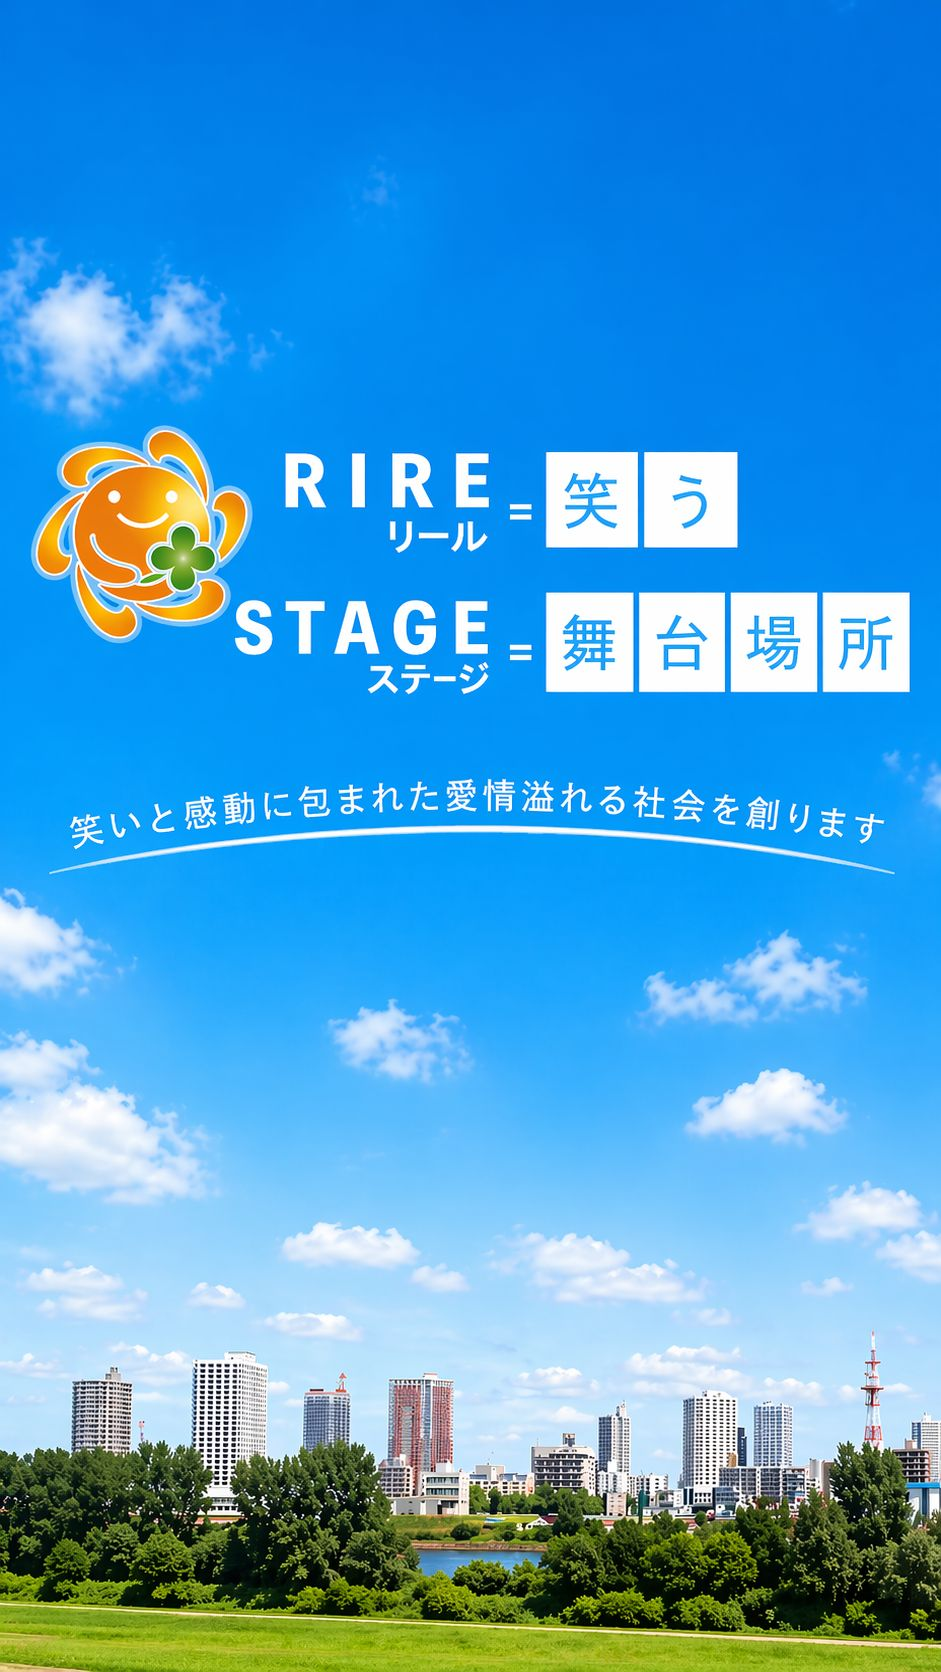
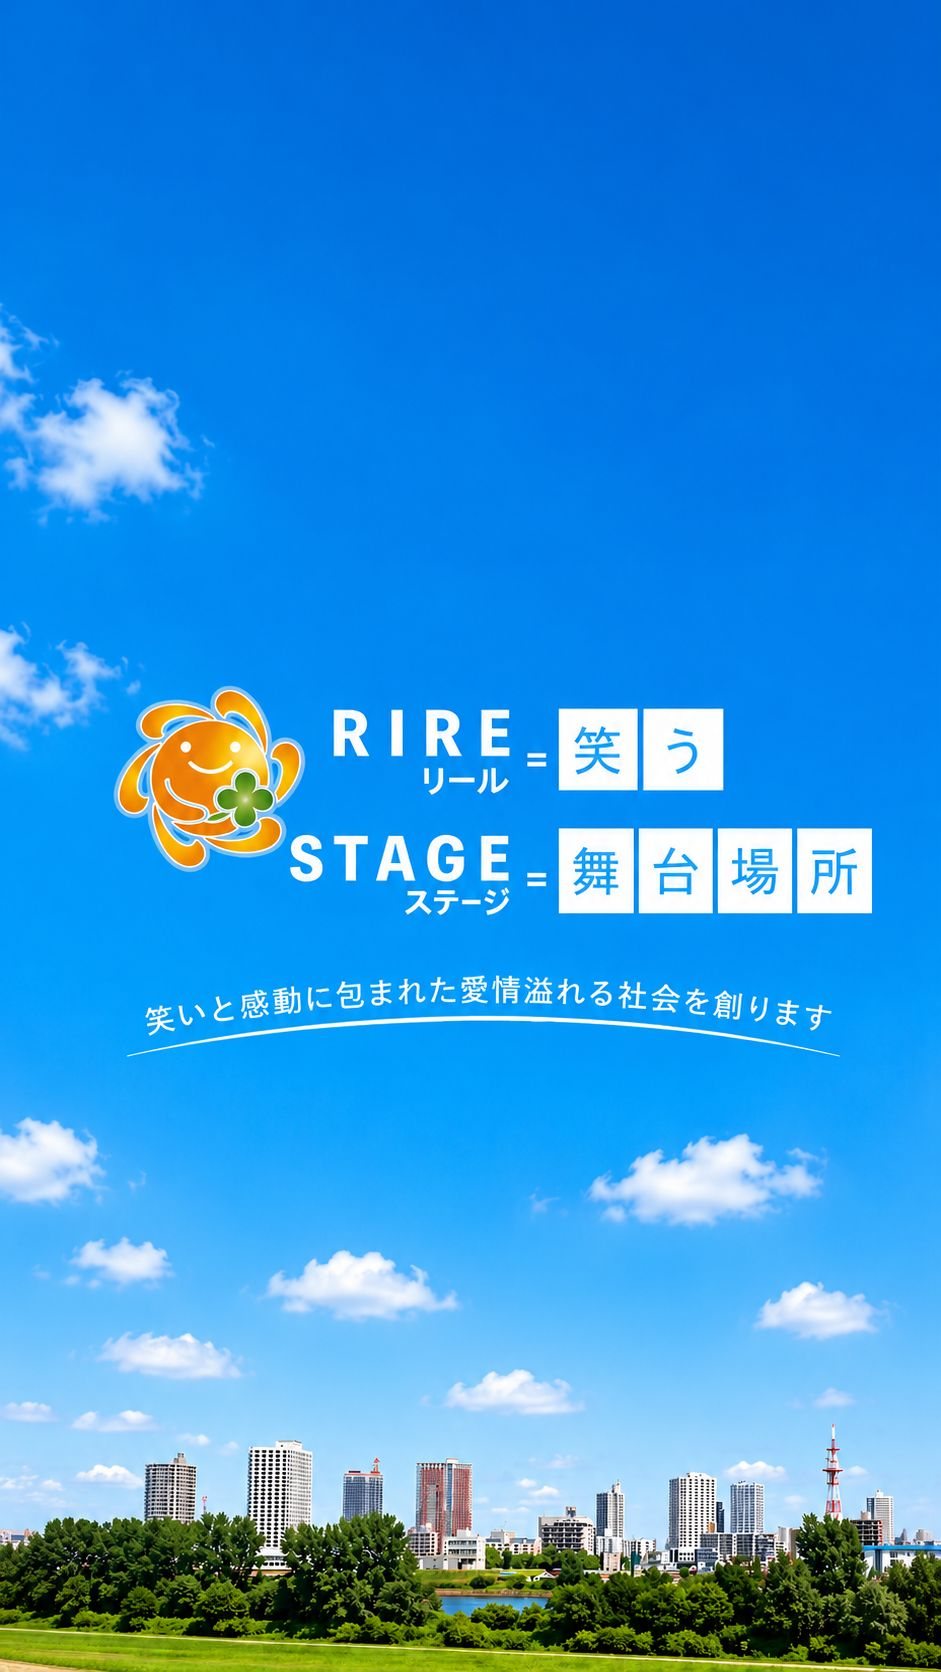
トップ画像を更新

diff --git a/style.css b/style.css
@@ -77,22 +77,7 @@ img {
   opacity: 0.85;
 }
 
-.hero {
-  position: relative;
-  width: 100%;
-  height: 100vh;
-  min-height: 0;
-  box-sizing: border-box;
-  overflow: hidden;
-}
 
-.hero-slider {
-  position: absolute;
-  inset: 0;
-  top: 0;
-  bottom: 0;
-  overflow: hidden;
-}
 
 .hero-slider .slide {
   position: absolute;
@@ -164,16 +149,6 @@ img {
   }
 }
 
-.vacancy {
-  display: inline-block;
-  padding: 10px 20px;
-  background-color: rgba(255, 255, 255, 0.9);
-  color: #00695c;
-  font-size: 20px;
-  font-weight: bold;
-  border-radius: 999px;
-  max-width: 320px;
-}
 
 h1 {
   font-size: 40px;
@@ -313,19 +288,6 @@ h2 {
   line-height: 1.8;
 }
 
-@media (max-width: 768px) {
-  .reason-item {
-    flex-direction: column;
-    gap: 12px;
-    padding: 20px;
-  }
-
-  .reason-number {
-    width: 46px;
-    height: 46px;
-    font-size: 18px;
-  }
-}
 
 .gallery {
   display: grid;
@@ -367,12 +329,6 @@ footer {
   background-color: #dfeeea;
 }
 
-.contact-tel {
-  font-size: 24px;
-  font-weight: bold;
-  margin: 16px 0 8px;
-}
-
 .contact-tel a {
   color: #00695c;
   text-decoration: none;
@@ -382,11 +338,6 @@ footer {
   text-decoration: underline;
 }
 
-.contact-note {
-  margin-top: 16px;
-  font-size: 15px;
-  color: #666;
-}
 
 #contact {
   text-align: left;
@@ -479,14 +430,6 @@ footer {
   overflow: hidden;
 }
 
-.hero-slider .slide {
-  position: absolute;
-  inset: 0;
-  width: 100%;
-  height: 100%;
-  opacity: 0;
-  animation: heroFade 10s infinite;
-}
 
 .hero-slider .slide:nth-child(1) {
   animation-delay: 0s;
@@ -518,13 +461,6 @@ footer {
   pointer-events: none;
 }
 
-@keyframes heroFade {
-  0% { opacity: 0; }
-  10% { opacity: 1; }
-  40% { opacity: 1; }
-  50% { opacity: 0; }
-  100% { opacity: 0; }
-}
 
 /* ==================================================
    mainビジュアル内の白文字
@@ -626,53 +562,7 @@ footer {
   color: #444;
 }
 
-/* ==================================================
-   mainビジュアル スマホ対応
-================================================== */
 
-@media (max-width: 768px) {
-  .hero {
-    height: 62vh;
-    min-height: 460px;
-  }
-
-  .hero-text {
-    left: 24px;
-    right: 24px;
-    top: 50%;
-    width: auto;
-    max-width: none;
-  }
-
-  .hero-label {
-    min-width: 0;
-    font-size: 13px;
-    padding: 7px 14px;
-    margin-bottom: 14px;
-  }
-
-  .hero-text h1 {
-    font-size: 28px;
-    line-height: 1.45;
-    margin-bottom: 18px;
-  }
-
-  .hero-copy {
-    font-size: 15px;
-    line-height: 1.8;
-  }
-
-  .hero-feature-cards {
-    width: 92%;
-    grid-template-columns: 1fr;
-    gap: 16px;
-    margin: 24px auto 40px;
-  }
-
-  .hero-feature-card {
-    padding: 24px 18px;
-  }
-}
 
 /* ==================================================
    行事紹介
@@ -903,4 +793,212 @@ footer {
 
 .voice small {
   white-space: nowrap;
+}
+
+/* ===================================
+   スマホ用CSS まとめ
+=================================== */
+@media (max-width: 768px) {
+
+  body {
+    overflow-x: hidden;
+  }
+
+  .site-header {
+    padding: 14px 16px;
+  }
+
+  .header-inner {
+    flex-direction: column;
+    align-items: center;
+    gap: 12px;
+  }
+
+  .site-title {
+    font-size: 26px;
+    text-align: center;
+  }
+
+  .header-actions {
+    width: 100%;
+    flex-direction: column;
+    gap: 10px;
+  }
+
+  .header-vacancy,
+  .header-button {
+    width: 100%;
+    text-align: center;
+    font-size: 15px;
+  }
+
+  main {
+    width: 100%;
+    padding: 28px 14px;
+  }
+
+  .section {
+    padding: 22px 16px;
+  }
+
+  h2 {
+    font-size: 24px;
+  }
+
+  /* トップ画像 */
+  .hero {
+    height: 70vh;
+    min-height: 420px;
+  }
+
+  .hero-text {
+    left: 50%;
+    top: 50%;
+    width: 86%;
+    max-width: none;
+    transform: translate(-50%, -50%);
+    text-align: center;
+  }
+
+  .hero-label {
+    min-width: 0;
+    font-size: 13px;
+    padding: 8px 14px;
+    margin-bottom: 14px;
+  }
+
+  .hero-text h1 {
+    font-size: 27px;
+    line-height: 1.45;
+  }
+
+  .hero-copy {
+    font-size: 15px;
+    line-height: 1.8;
+  }
+
+  .hero-feature-cards {
+    width: 92%;
+    grid-template-columns: 1fr;
+    gap: 16px;
+    margin: 24px auto 40px;
+  }
+
+  .hero-feature-card {
+    padding: 24px 18px;
+  }
+
+  /* 行事紹介 */
+  .events-section {
+    margin: 40px auto;
+    padding: 0 14px;
+  }
+
+  .events-heading h2 {
+    font-size: 30px;
+  }
+
+  .event-card-large,
+  .event-card-large.reverse {
+    display: flex;
+    flex-direction: column;
+    padding: 18px;
+    gap: 18px;
+  }
+
+  .event-image {
+    order: -1;
+    width: 100%;
+  }
+
+  .event-image img {
+    width: 100%;
+    aspect-ratio: 16 / 9;
+    height: auto;
+    object-fit: cover;
+    border-radius: 14px;
+  }
+
+  .event-text {
+    width: 100%;
+    padding: 0;
+  }
+
+  .event-tag {
+    width: fit-content;
+    font-size: 18px;
+    padding: 8px 18px;
+    margin-bottom: 14px;
+  }
+
+  .event-text p {
+    width: 100%;
+    max-width: none;
+    font-size: 16px;
+    line-height: 1.9;
+  }
+
+  .voice {
+    display: flex;
+    flex-wrap: wrap;
+    gap: 8px;
+    font-size: 14px;
+  }
+
+  .voice small {
+    width: 100%;
+    margin-left: 0;
+  }
+
+  /* カード */
+  .cards {
+    flex-direction: column;
+  }
+
+  .card {
+    width: 100%;
+  }
+
+  .reason-item {
+    flex-direction: column;
+    gap: 12px;
+    padding: 20px;
+  }
+
+  .reason-number {
+    width: 46px;
+    height: 46px;
+    font-size: 18px;
+  }
+
+  /* ギャラリー */
+  .gallery {
+    grid-template-columns: 1fr;
+  }
+
+  .gallery img {
+    height: 240px;
+  }
+
+  /* 問い合わせ */
+  .contact-layout {
+    grid-template-columns: 1fr;
+  }
+
+  .contact-card {
+    padding: 24px 18px;
+  }
+
+  .contact-tel {
+    font-size: 24px;
+  }
+
+  .map-card iframe {
+    min-height: 280px;
+  }
+
+  footer {
+    font-size: 14px;
+    padding: 18px 12px;
+  }
 }
